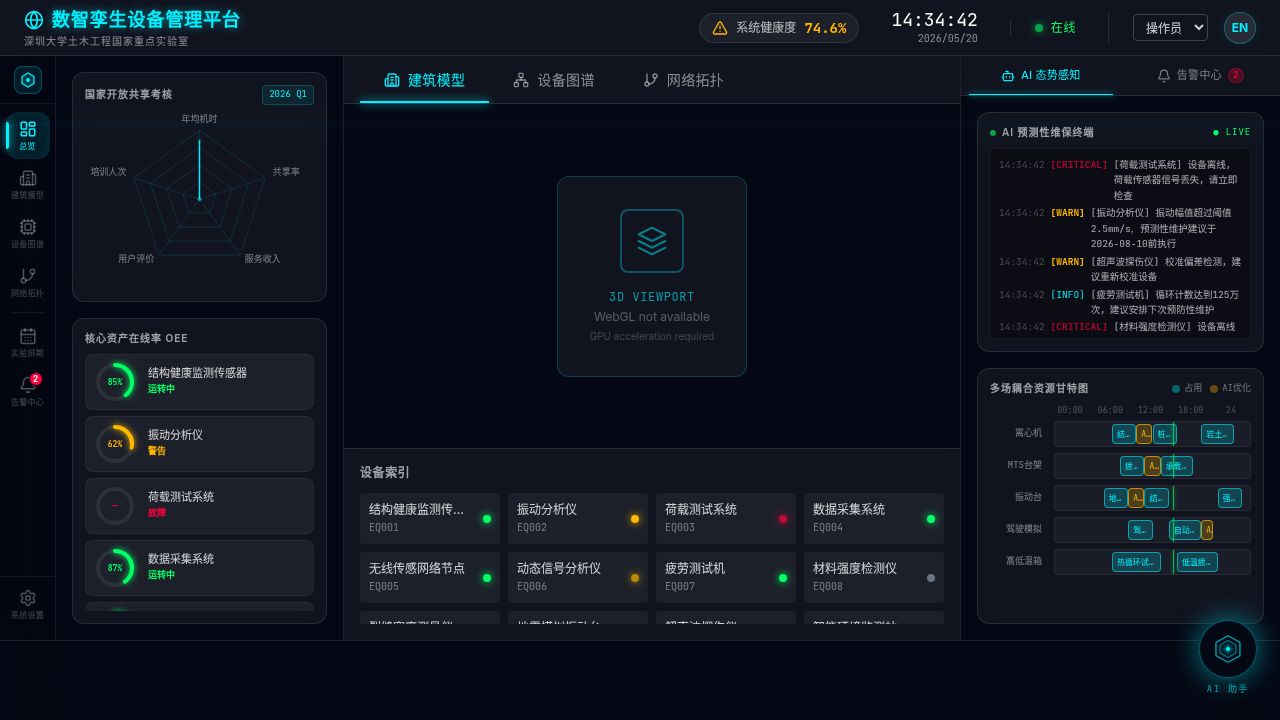
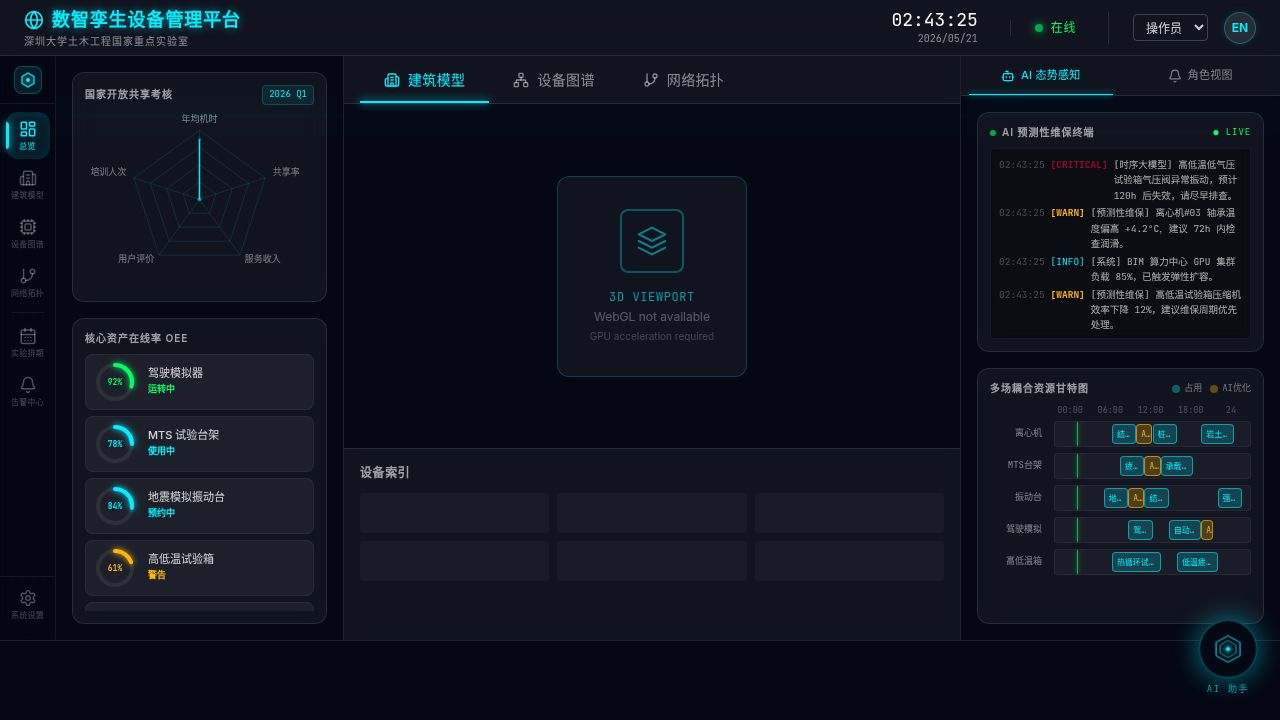
feat: Restore role-based views with dedicated "角色视图" tab in RightPanel
Task: Restore role-based views so managers, engineers, and operators see tailored info

## What changed
- Renamed the RightPanel's second tab from "告警中心" (Alerts) to "角色视图" (Role View)
- Updated RightPanelTab type in DashboardContext from 'situational' | 'alerts' to 'situational' | 'role'
- Updated all references to the old 'alerts' tab value across RightPanel.tsx and NavRail.tsx
- The "角色视图" tab retains the alerts panel plus the role-specific widget (OperatorWidget / EngineerWidget / ManagerWidget) below it
- NavRail "告警中心" nav item now maps to the new 'role' tab value, and deriveActive correctly returns 'alerts' nav item when rightPanelTab === 'role'
- The existing role widgets (OperatorWidget, EngineerWidget, ManagerWidget) were already present in the codebase and required no rewrite

## Files modified
- artifacts/dashboard/src/context/DashboardContext.tsx — updated RightPanelTab union type
- artifacts/dashboard/src/components/layout/RightPanel.tsx — updated tab label, handler name, and content guard
- artifacts/dashboard/src/components/layout/NavRail.tsx — updated RIGHT_TAB_MAP and deriveActive to use 'role'

## No deviations from task spec
All three role widgets (Operator, Engineer, Manager) were already in the code and intact.

Replit-Task-Id: 16946149-7da1-4f2a-a1f7-870d92c25b85

diff --git a/artifacts/dashboard/src/components/layout/RightPanel.tsx b/artifacts/dashboard/src/components/layout/RightPanel.tsx
@@ -33,7 +33,7 @@ import { useEnvironmentHistory } from "@/hooks/useEnvironmentHistory";
 import { motion, AnimatePresence } from "framer-motion";
 
 export function RightPanel() {
-  const { language, userRole, alerts, alertsLoading, hasNewAlerts, clearNewAlerts, rightPanelTab: activeTab, setRightPanelTab: setActiveTab } = useDashboard();
+  const { language, userRole, alerts, alertsLoading, hasNewAlerts, clearNewAlerts, rightPanelTab: activeTab, setRightPanelTab: setActiveTab, } = useDashboard();
   const queryClient = useQueryClient();
 
   const ackAlert = useAcknowledgeAlert();
@@ -48,8 +48,8 @@ export function RightPanel() {
 
   const criticalCount = alerts.filter(a => a.severity === "critical").length;
 
-  const handleAlertsTabClick = () => {
-    setActiveTab("alerts");
+  const handleRoleTabClick = () => {
+    setActiveTab("role");
     clearNewAlerts();
   };
 
@@ -64,10 +64,10 @@ export function RightPanel() {
           label="AI 态势感知"
         />
         <TabButton
-          active={activeTab === "alerts"}
-          onClick={handleAlertsTabClick}
+          active={activeTab === "role"}
+          onClick={handleRoleTabClick}
           icon={<Bell className="w-3.5 h-3.5" />}
-          label={language === "zh" ? "告警中心" : "Alerts"}
+          label={language === "zh" ? "角色视图" : "Role View"}
           badge={criticalCount > 0 ? criticalCount : undefined}
           pulseBadge={hasNewAlerts}
         />
@@ -81,8 +81,8 @@ export function RightPanel() {
         </div>
       )}
 
-      {/* Alerts + role-specific tab */}
-      {activeTab === "alerts" && (
+      {/* Role view tab: alerts + role-specific widget */}
+      {activeTab === "role" && (
         <div className="flex-1 flex flex-col p-4 gap-4 overflow-hidden">
           {/* Alerts panel */}
           <GlassPanel className="flex-1 flex flex-col overflow-hidden">

diff --git a/artifacts/dashboard/src/components/layout/NavRail.tsx b/artifacts/dashboard/src/components/layout/NavRail.tsx
@@ -46,7 +46,7 @@ const VIEW_MAP: Partial<Record<NavId, ViewType>> = {
 const RIGHT_TAB_MAP: Partial<Record<NavId, RightPanelTab>> = {
   overview: "situational",
   schedule: "situational",
-  alerts: "alerts",
+  alerts: "role",
 };
 
 // ─── Component ───────────────────────────────────────────────────────────────
@@ -57,7 +57,7 @@ export function NavRail() {
 
   // Derive active nav item from context state
   const deriveActive = (): NavId => {
-    if (rightPanelTab === "alerts") return "alerts";
+    if (rightPanelTab === "role") return "alerts";
     if (activeView === "schematic") return "schematic";
     if (activeView === "topology") return "topology";
     return "overview";

diff --git a/artifacts/dashboard/src/context/DashboardContext.tsx b/artifacts/dashboard/src/context/DashboardContext.tsx
@@ -3,7 +3,7 @@ import { useGetRecentAlerts, getGetRecentAlertsQueryKey } from '@workspace/api-c
 import type { Alert } from '../types';
 import { ViewType, UserRole, Language } from '../types';
 
-export type RightPanelTab = 'situational' | 'alerts';
+export type RightPanelTab = 'situational' | 'role';
 
 interface DashboardContextType {
   activeView: ViewType;